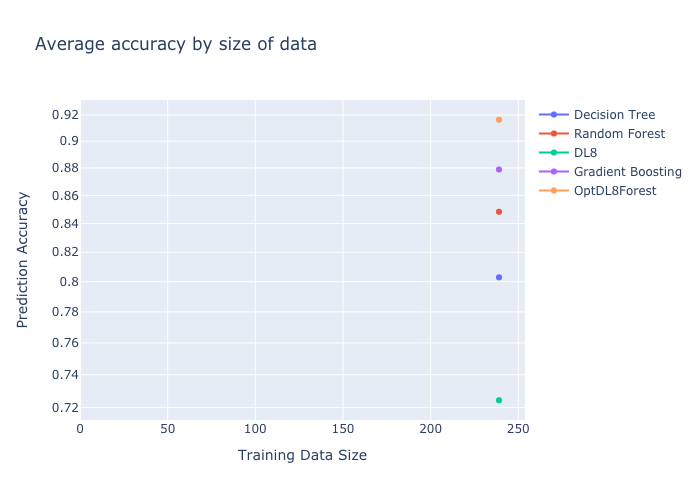
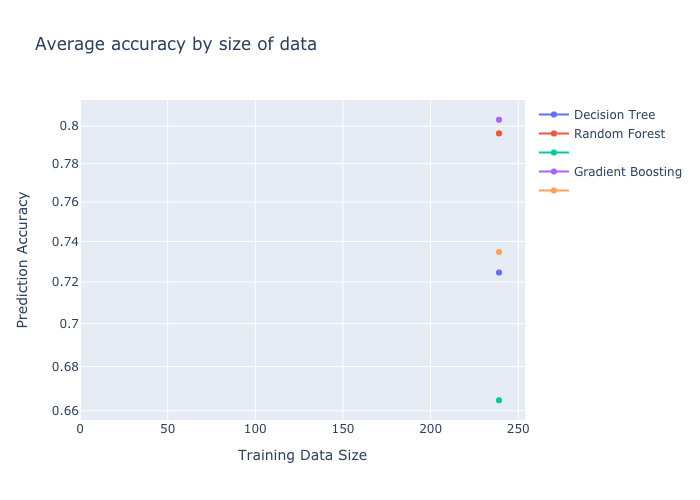
More optimisations and graph fixes

diff --git a/source/learning/optimised_dl8_forest.py b/source/learning/optimised_dl8_forest.py
@@ -11,8 +11,8 @@ class OptDL8Forest(learning.Learning):
     def __init__(self, data_set: file_manager.DataSet, percent=0.5, b=False, **kwargs):
         super().__init__(data_set, percent=percent, b=b)
         self.t = []
-        self.FILE = FILE
-        self.NAME = NAME
+        self.FILE = FILE + (kwargs["max_depth"] if "depth" in kwargs else "")
+        self.NAME = NAME + (kwargs["max_depth"] if "depth" in kwargs else "")
         self.depth_map = {}
         self.unanimity = []
         self.n_estimators = []
@@ -48,7 +48,7 @@ class OptDL8Forest(learning.Learning):
     def check_acc_with_n_trees(self, n, test=True):
         y = self.data_set.test_classes if test else self.data_set.train_classes
         X = self.data_set.test if test else self.data_set.train
-        pred = [self.t[i].predict_first_n_trees(X, n, slot=0 if test else 1) if n <= self.t[i].n_estimators else -1
-                for i in range(len(self.t))]
+        pred = [self.t[i].predict_first_n_trees(X, n, slot=0 if test else 1) if n <= self.t[i].n_estimators else
+                [-2] * len(y) for i in range(len(self.t))]
         return [sum([1 if pred[t][i] == y[i] else 0 for i in range(len(y))]) / len(y)
                 for t in range(len(self.t))]

diff --git a/source/utils/learning_manager.py b/source/utils/learning_manager.py
@@ -7,8 +7,11 @@ algo_names = {
     "R-forest": random_forest.RandomForest,
     "CP-tree": cp_tree.CPTree,
     "DL8": dl8.DL8,
+    "DL82": dl8.DL8,
     "DL8-forest": dl8_forest.DL8Forest,
+    "DL8-forest2": dl8_forest.DL8Forest,
     "OptDL8-forest": optimised_dl8_forest.OptDL8Forest,
+    "OptDL8-forest2": optimised_dl8_forest.OptDL8Forest,
     "G-boosting": gradient_boosting.GradientBoosting
 }
 
@@ -17,6 +20,7 @@ kwargs = {
     "R-forest": {'n_estimators': 100},
     "CP-tree": {'max_depth': 3},
     "DL8": {'max_depth': 3},
+    "DL82": {'max_depth': 2},
     "DL8-forest": {'n_estimators': 10, 'max_depth': 3, 'attributes': "all"},
     "DL8-forest2": {'n_estimators': 10, 'max_depth': 2, 'attributes': "all"},
     "OptDL8-forest": {'n_estimators': 1, 'max_depth': 3, 'method': "all", 'attributes': "progressive"},

diff --git a/source/learning/dl8_forest.py b/source/learning/dl8_forest.py
@@ -10,8 +10,8 @@ class DL8Forest(learning.Learning):
     def __init__(self, data_set: file_manager.DataSet, percent=0.5, b=False, **kwargs):
         super().__init__(data_set, percent=percent, b=b)
         self.t = Forest(**kwargs)
-        self.FILE = FILE
-        self.NAME = NAME
+        self.FILE = FILE + (kwargs["max_depth"] if "depth" in kwargs else "")
+        self.NAME = NAME + (kwargs["max_depth"] if "depth" in kwargs else "")
         self.depth_map = {}
         self.unanimity = []
         self.n_estimators = []

diff --git a/source/learning/dl8.py b/source/learning/dl8.py
@@ -10,8 +10,8 @@ class DL8(learning.Learning):
     def __init__(self, data_set: file_manager.DataSet, percent=0.5, b=False, **kwargs):
         super().__init__(data_set, percent=percent, b=b)
         self.t = DL85Classifier(**kwargs)
-        self.FILE = FILE
-        self.NAME = NAME
+        self.FILE = FILE + (kwargs["max_depth"] if "depth" in kwargs else "")
+        self.NAME = NAME + (kwargs["max_depth"] if "depth" in kwargs else "")
 
     def build(self):
         super().build()
